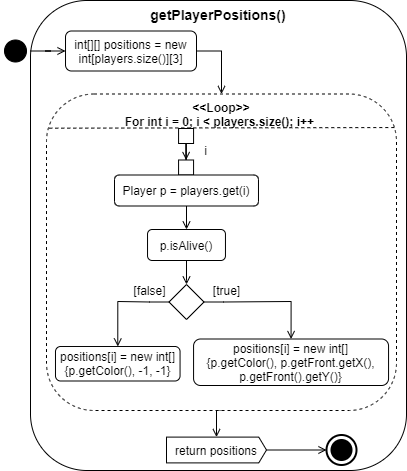
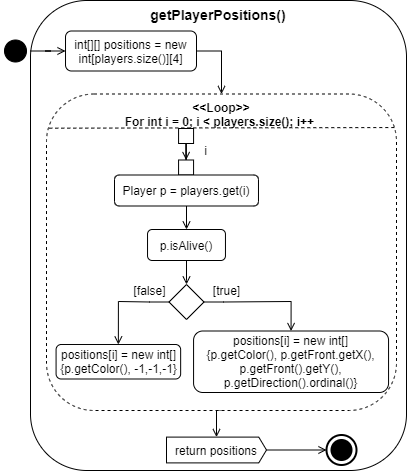
88 updateplayer ausrichtung model (#103)
* getPlayerPositions now also return direction of player

* getPlayerPositions changes in impl

* changed Kurzbeschreibung of getPlayerPositions

diff --git a/src/main/java/de/hawh/beta3/application/game/model/gamelogic/GameLogic.java b/src/main/java/de/hawh/beta3/application/game/model/gamelogic/GameLogic.java
@@ -105,14 +105,14 @@ public class GameLogic implements IGameLogic {
      */
     @Override
     public int[][] getPlayerPositions() {
-        int[][] positions = new int[players.size()][3];
+        int[][] positions = new int[players.size()][4];
 
         for (int i = 0; i < players.size(); i++) {
             Player p = players.get(i);
             if (p.isAlive()) {
-                positions[i] = new int[]{p.getColor(), p.getFront().getX(), p.getFront().getY()};
+                positions[i] = new int[]{p.getColor(), p.getFront().getX(), p.getFront().getY(), p.getDirection().ordinal()};
             } else {
-                positions[i] = new int[]{p.getColor(), -1, -1};
+                positions[i] = new int[]{p.getColor(), -1, -1, -1};
             }
         }
 

diff --git a/src/main/java/de/hawh/beta3/application/game/model/gamemanager/GameManager.java b/src/main/java/de/hawh/beta3/application/game/model/gamemanager/GameManager.java
@@ -107,7 +107,7 @@ public class GameManager implements IModel {
         gameLogic.updatePlayers();
         if (gameLogic.getGameState().equals("RUNNING")) {
             for (int[] p : gameLogic.getPlayerPositions()) {
-                //modelView.updatePlayer(p[0], p[1], p[2]);
+                //modelView.updatePlayer(p[0], p[1], p[2], p[3]);
             }
         } else if (gameLogic.getGameState().equals("OVER")) {
             //modelController.endGame(gameLogic.getGameWinner());

diff --git a/Doku/Dokumentation_Tronspiel.md b/Doku/Dokumentation_Tronspiel.md
@@ -165,7 +165,7 @@ Die Anforderungen wurden mit Hilfe der Storyboard-Methode aufgenommen. Dafür wu
 |UC4 | View | void drawTileColors(int id, int oldX, int oldY, int difX, int difY, String oldOrientation) | Der Nutzer befindet sich im Spielbildschirm und die Methode updatePlayer() wurde aufgerufen. | Die Daten zur Einfärbung des Spielfeldes werden auf den aktualisierten Stand gebracht. |Die Methode berechnet, welche Tiles mit der Farbe des übergebenen Spielers eingefärbt werden sollen und ihren Wert auf die Farbe des Spielers. | |
 |UC4| Controller | String handleDirectionKeyboardInput() |Der Nutzer hat eine Taste füe die Steuerung seines Spielers gedrückt.| Die gewünschte Richtungsänderung wird zurückgegeben. | Die Methode liefert die Richtung, die über die Tastatur vom Nutzer eingegeben wurde. Wenn die entsprechende Tastenbelegung für die Steuerung des Motorrads nach links gedrückt wurde, gibt die Methode den String 'left' zurück. <br> Wenn die entsprechende Tastenbelegung für die Steuerung des Motorrads nach rechts gedrückt wurde, gibt die Methode den String 'right' zurück.| Im Fehlerfall wird eine Exception mit Fehlerbeschreibung geworfen |
 |UC4 | Model | ``void changePlayerDirection(int, String)`` | Der Nutzer hat eine Taste für die Richtungsänderung gedrückt und die gewünschte Richtung wurde ermittelt. | Der Spieler wurde um 90° in die gewünschte Richtung gedreht.|Der Methode werden als Parameter die Spieler-ID und ein String übergeben, welche die Information liefert, ob der Spieler nach links oder nach rechts gesteuert wird. Der Spieler mit der ID wird in der Liste der Spieler gesucht. Es wird überprüft, ob der Spieler noch am Leben ist und ob er in diesem Tick bereits eine Aktion getätigt hat. Aus der aktuellen front und der Richtung des Spielers bezogen aufs Spielfeld werden die neue front und die neue Richtung berechnet und gesetzt. Außerdem wird gespeichert, dass der Spieler diesen Tick eine Aktion getätigt hat. | Wenn der Spieler mit der übergebenen ID nicht unter den Spielern gefunden wurde, nicht am Leben ist oder bereits eine Aktion diesen Tick gemacht hat, wird die Eingabe ignoriert. |
-|UC4,5,6,7,8 | Model | ``void update()`` | Das Spiel befindet sich im Zustand RUNNING. | Alle lebenden Spieler wurden bewegt, das Spiel ist möglicherweise vorbei. | Diese Methode ist die tick-Methode/ der Gameloop des Spiels. Sie wird also in festen Zeitintervallen ausgeführt. Diese Methode ruft intern `updatePlayers()` zum Aktualisieren der Spieler auf (Bewegen und Töten). Dann wird der GameState geprüft. Ist das Spiel RUNNING, werden alle neuen Positionen der Spieler an die View mittels ``updatePlayer()`` übermittelt. Tote Spieler werden hier auch mitgeschickt mit der Info, dass sie entfernt werden sollen. Ist das Spiel OVER wird stattdessen der Sieger erfragt und an den Controller übermittelt, um das Spiel zu beenden.||
+|UC4,5,6,7,8 | Model | ``void update()`` | Das Spiel befindet sich im Zustand RUNNING. | Alle lebenden Spieler wurden bewegt, das Spiel ist möglicherweise vorbei. | Diese Methode ist die tick-Methode/ der Gameloop des Spiels. Sie wird also in festen Zeitintervallen ausgeführt. Diese Methode ruft intern `updatePlayers()` zum Aktualisieren der Spieler auf (Bewegen und Töten). Dann wird der GameState geprüft. Ist das Spiel RUNNING, werden alle neuen Positionen der Spieler an die View mittels `getPlayerPositions()` und ``updatePlayer()`` übermittelt. Tote Spieler werden hier auch mitgeschickt mit der Info, dass sie entfernt werden sollen. Ist das Spiel OVER wird stattdessen der Sieger erfragt und an den Controller übermittelt, um das Spiel zu beenden.||
 |UC4,5,6,7,8 | Model | ``void updatePlayers()`` | Das Spiel befindet sich im Zustand RUNNING. Diese Methode wurde in ``update()`` aufgerufen. | Alle Spieler wurden bewegt und eventuell Spieler getötet. | Es wird zu Beginn eine leere Liste initialisiert für Spieler, die diesen Zug sterben könnten. Dann werden alle Spieler bewegt, von denen diesen Tick kein Input kam (mit ``movePlayersNoInput()``). Danach wird über alle lebenden Spieler iteriert. Spieler werden der Liste hinzugefügt, wenn es eine Kollision an ihrer front gibt (geprüft durch ``checkForCollision()``). Wenn es keine Kollision für den aktuell betrachteten Spieler gibt, wird `movePlayer` aufgerufen, um den Spieler zu bewegen. Wurden alle Spieler abgehandelt, werden in der Methode ``killPlayers()`` alle Spieler in der Liste getötet.||
 |UC4 | Model | ``void movePlayersNoInput()`` | Das Spiel befindet sich im Zustand RUNNING. Diese Methode wurde in ``updatePlayers()`` aufgerufen. | Alle Spieler wurden diesen tick bewegt | Es wird über alle Spieler iteriert. Für jeden, der keine `currentAction` hat, wird mit ``calcNextPos()`` die nächste Position in der aktuellen Richtung berechnet und als front des Spielers gesetzt |  |
 |UC4 | Model | ``Position calcNextPos(Position, Direction, String)`` | Die neue Position eines Spielers soll ermittelt werden | Die neue Position wurde berechnet und zurückgegeben | Zuerst wird ein int[] initialisert mit den Änderungen für x und y je nach Richtung (LEFT,UP,RIGHT,DOWN). Dann wird anhand der übergebenen Richtung und der `action` als String die resultierende Richtung ermittelt. Anhand der ordinalen Ordnung dieser Richtung im enum werden die Änderungen für x und y mithilfe des int[] bestimmt und zurückgegeben | |
@@ -346,7 +346,7 @@ Die Schnittstelle **IRemoteObject** bietet die Funktionalität zum Empfangen von
 | ``updatePlayers()`` | Aktualisiert die Position aller Spieler und bereitet tote Spieler auf ihre Entfernung vor |
 | ``getGameState()`` | Liefert den GameState für den Manager als String |
 | ``getGameWinner()`` | Liefert die id des Siegers oder -1 bei Unentschieden |
-| ``getPlayerPositions()`` | Liefert die Positionen aller Spieler im Format int[3] mit {Spieler-ID,x,y} für die aktuelle Position und {Spieler-ID,-1,-1} wenn der Spieler tot ist |
+| ``getPlayerPositions()`` | Liefert die Positionen aller Spieler im Format int[4] mit {Spieler-ID,x,y,dir} für die aktuelle Position und Richtung als ordinal und {Spieler-ID,-1,-1,-1} wenn der Spieler tot ist |
 
 ``Player`` und ``Position`` haben nur Getter/ Setter als öffentliche Methoden. ``prev()`` und ``next()`` von ``Direction`` liefern die ordinal vorherige/ nächste Richtung von LEFT,UP,RIGHT,DOWN. In ``run()`` von ``WaitingTimer`` wird ``cancelWait()`` von ``GameManager`` aufgerufen, um das Spiel abzubrechen.
 
